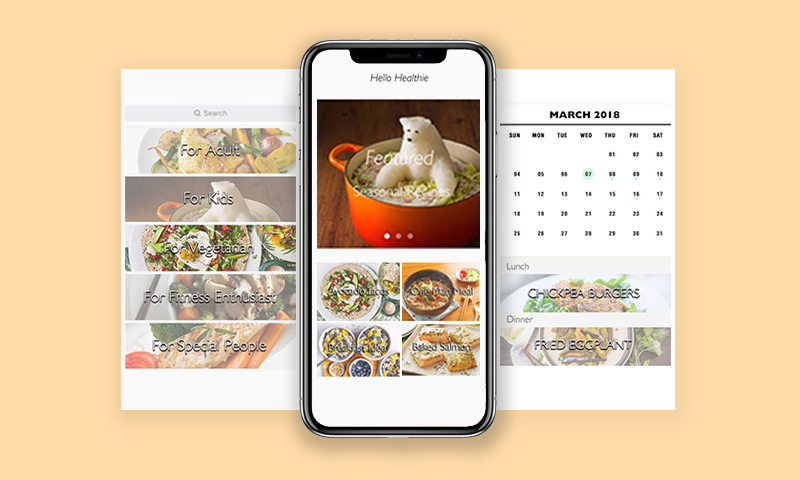
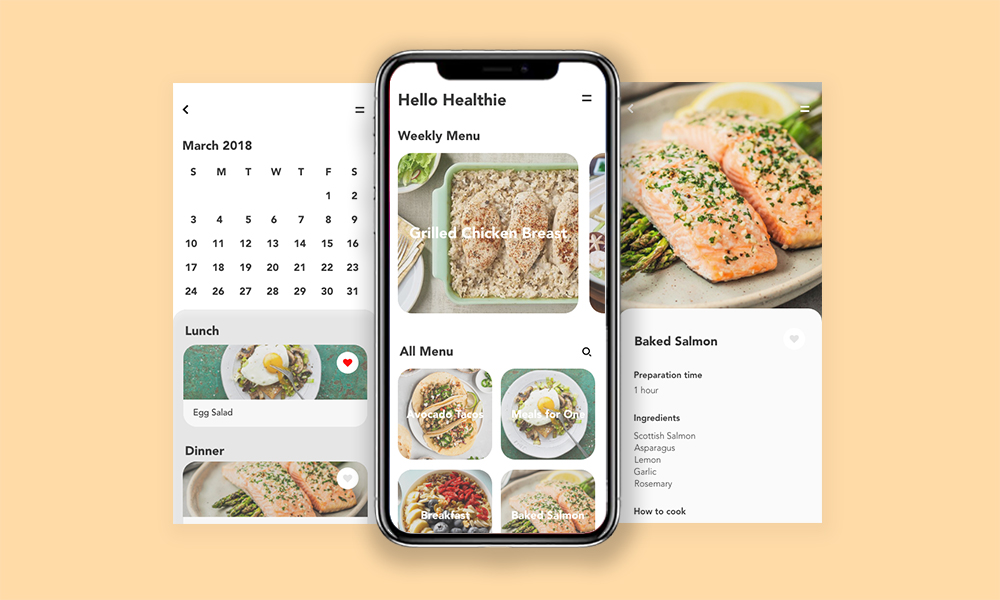
hello healthie

diff --git a/hellohealthie.html b/hellohealthie.html
@@ -1,0 +1,249 @@
+<!doctype html>
+<html lang="en">
+  <head>
+    <meta charset="utf-8">
+    <meta name="viewport" content="width=device-width, initial-scale=1, shrink-to-fit=no">
+    <title>Mickey Law Design Portfolio - Hello Healthie</title>
+    <link rel="stylesheet" href="css/bootstrap.min.css">
+    <link rel="stylesheet" href="css/aos.min.css">
+    <link rel="stylesheet" href="css/hamburgers/hamburgers.min.css">
+    <link rel="stylesheet" href="css/owl.carousel.min.css">
+    <link rel="stylesheet" href="fonts/icomoon/style.css">
+    <link rel="stylesheet" href="css/animsition.min.css">
+    <link rel="stylesheet" type="text/css" href="https://cdnjs.cloudflare.com/ajax/libs/font-awesome/4.7.0/css/font-awesome.min.css">
+    <link rel="stylesheet" href="https://cdnjs.cloudflare.com/ajax/libs/font-awesome/4.7.0/css/font-awesome.min.css">
+
+    <link rel="stylesheet" href="css/style.css">
+  </head>
+  <body>
+
+  <div class="js-animsition animsition" data-animsition-in-class="fade-in" data-animsition-out-class="fade-out">
+
+    <header class="templateux-navbar"  data-aos="fade-down">
+      <div class="container-fluid">
+        <div class="row">
+          <div class="col-sm-3 col-3"><div class="site-logo"><a href="index.html" class="animsition-link">Mickey Law</a></div></div>
+          <div class="col-sm-9 col-9 text-right">
+
+            <button class="hamburger hamburger--spin toggle-menu ml-auto js-toggle-menu" type="button">
+              <span class="hamburger-box">
+                <span class="hamburger-inner"></span>
+              </span>
+            </button>
+
+            <nav class="templateux-menu js-templateux-menu" role="navigation">
+              <ul class="list-unstyled">
+                <li class="d-md-none d-block"><a href="index.html" class="animsition-link">Home</a></li>
+                <li class="active"><a href="index.html" class="animsition-link">Work</a></li>
+                <li><a href="about.html" class="animsition-link">About</a></li>
+                <li><a href="contact.html" class="animsition-link">Contact</a></li>
+              </ul>
+            </nav>
+          </div>
+        </div>
+      </div>
+    </header>
+
+    <!-- END templateux-navbar -->
+
+    <section class="templateux-hero"  data-scrollax-parent="true">
+      <!-- <div class="cover" data-scrollax="properties: { translateY: '30%' }"><img src="images/hero_2.jpg" /></div> -->
+
+      <div class="container">
+        <div class="row align-items-center justify-content-center intro">
+          <div class="col-md-10" data-aos="fade-up">
+            <!--div class="row justify-content-center"-->
+            <!--/div-->
+            <h1 style="text-align:center">Hello Healthie</h1>
+            <p style="text-align:center">UX Design Challenge</p>
+
+            <!--a href="#next" class="go-down js-smoothscroll"></a-->
+
+          </div>
+        </div>
+      </div>
+
+    </section>
+
+    <!-- END templateux-hero -->
+
+
+    <section class="templateux-portfolio-overlap mb-5" id="next">
+      <div class="container" data-aos="fade-up">
+        <div class="row justify-content-center">
+          <div class="col-md-10">
+
+            <div class="row work-detail">
+              <div class="col-md-4 ">
+                <span class=caption>Category</span>
+                <span class=cap>User research<br /> User experience design<br /> Human-centred design</span>
+              </div>
+              <div class="col-md-4">
+                <span class=caption>Designer</span>
+                <span class=cap>Mickey Law<br /> Leann Chen<br /> Rosalyn Chun</span>
+              </div>
+              <div class="col-md-4">
+                <span class=caption>Year</span>
+                <span class=cap>2018</span>
+              </div>
+            </div>
+
+            <p class="text-center mb-5"><img src="images/ideo.jpg" alt="Image placeholder" class="img-fluid" width="790"></p>
+
+            <div class="row">
+              <div class="row justify-content-center">
+
+                <div class="col-md-10">
+                  <p class="mb-4">This was a 7-week online course provided by +Acumen and IDEO.org. Throughout this course, I was introduced to different methods and tools of human-centred design and tackled a real-world design challenge with my teammates by going through the process of design research, concept generation and rapid prototyping. </p>
+                </div>
+                <div class="col-md-10">
+                  <h2 class="text-center"><br /><br />01</h2>
+                  <h4 class="mb-5 text-center">Mini Design Challenge</h4>
+                </div>
+                <div class="col-md-10">
+                  <h6 class="mb-3"></h6>
+                  <p class="mb-5">One of the mini design challenges was to brainstorm “How might we design a service to improve health in everyday places?”. </p>
+                </div>
+                <div class="col-md-10">
+                  <h6 class="mb-3"></h6>
+                  <p class="mb-3">We spent 5 minutes for each place to come up with as many ideas as we could. </p>
+                </div>
+                <div>
+                  <p class="text-center mb-5"><img src="images/hh_mini.jpg" alt="Image placeholder" class="img-fluid" width="790"></p>
+                </div>
+                <div class="col-md-10">
+                  <p class="mb-3">After that, we were asked to vote and select the best two ideas,<strong> Housework calories metre and Food pyramid shelf</strong>, for making prototypes. This learning through making process taught me how to <strong>use simple tools to do quick prototyping and validate our ideas.</strong></p>
+                </div>
+                <div>
+                  <p class="text-center mb-3"><img src="images/hh_proto.png" alt="Image placeholder" class="img-fluid" width="790"></p>
+                </div>
+                <div class="col-md-10">
+                  <p class="mb-5">Housework calories metre</p>
+                </div>
+                <div>
+                  <p class="text-center mb-3"><img src="images/hh_proto_2.png" alt="Image placeholder" class="img-fluid" width="790"></p>
+                </div>
+                <div class="col-md-10">
+                  <p class="mb-5">Food pyramid shelf</p>
+                </div>
+                <div class="col-md-10">
+                  <h2 class="text-center"><br /><br />02</h2>
+                  <h4 class="mb-5 text-center">Defining Opportunity</h4>
+                </div>
+                <div class="col-md-10">
+                  <p class="mb-3">In our final design challenge, we chose the topic of <strong>“How might we provide healthier food options for people in need?”.</strong></p>
+                </div>
+                <div class="col-md-10">
+                  <h2 class="text-center"><br /></h2>
+                  <h6 class="mb-3">Brainstorming</h6>
+                </div>
+                <div class="col-md-10">
+                  <p class="mb-3">We first brainstormed the problems which different stakeholders might encounter and found that business sector would be our target to improve the current situation.</p>
+                </div>
+                <div>
+                  <p class="text-center mb-3"><img src="images/hh_brainstorm.png" alt="Image placeholder" class="img-fluid" width="790"></p>
+                </div>
+                <div class="col-md-10">
+                  <h2 class="text-center"><br /></h2>
+                  <h6 class="mb-3">Interview</h6>
+                </div>
+                <div class="col-md-10">
+                  <p class="mb-3">We interviewed 5 people in total to gain insights from their eating habits. We drew some interesting findings from each of the respondents, transcribed each of the points on a piece of memo and placed it under each respondent's name.</p>
+                </div>
+                <div>
+                  <p class="text-center mb-3"><img src="images/hh_interview.jpg" alt="Image placeholder" class="img-fluid" width="790"></p>
+                </div>
+                <div class="col-md-10">
+                  <h2 class="text-center"><br /></h2>
+                  <h6 class="mb-3">Major takeaways from interview</h6>
+                </div>
+                <div class="col-md-10">
+                  <p class="mb-3">The memos were then categorised. We picked the three most important points as the main objectives to develop our concept:</p>
+                </div>
+                <div class="col-md-10">
+                  <p class="mb-3">1. Prefer healthy ingredients, methods and seasoning <br />2. Prefer fast and simple <br />3. Take healthy advice from professionals</p>
+                </div>
+                <div>
+                  <p class="text-center mb-3"><img src="images/hh_interview_2.jpg" alt="Image placeholder" class="img-fluid" width="790"></p>
+                </div>
+
+
+
+
+                <div class="col-md-10">
+                  <h2 class="text-center"><br /><br />03</h2>
+                  <h4 class="mb-5 text-center">Ideation</h4>
+                </div>
+                <div class="col-md-10">
+                  <p class="mb-3">We then converted the insights into a concept, Hello Healthie, which is an app collaborating with nutritionists, chefs, local farms to provide menu customizing and ingredient delivery service in Hong Kong. It promotes healthy cooking and balanced diet for Hong Kong people who are too busy to prepare meals.</p>
+                </div>
+                <div class="col-md-10">
+                  <h2 class="text-center"><br /><br /></h2>
+                  <h6 class="mb-3">User Flow</h6>
+                </div>
+                <div class="col-md-10">
+                  <p class="mb-3">We first considered the functions to be included in the app and drafted the user flow.</p>
+                </div>
+                <div>
+                  <p class="text-center mb-1"><img src="images/hh_userflow.jpg" alt="Image placeholder" class="img-fluid" width="790"></p>
+                </div>
+                <div class="col-md-10">
+                  <h2 class="text-center"><br /><br /></h2>
+                  <h6 class="mb-3">Low Fidelity Prototype</h6>
+                </div>
+                <div class="col-md-10">
+                  <p class="mb-3">After finishing the user flow, we created low fidelity prototype to visualise the user interface of the app.</p>
+                </div>
+                <div>
+                  <p class="text-center mb-1"><img src="images/hh_dirtyproto.png" alt="Image placeholder" class="img-fluid" width="790"></p>
+                </div>
+                <div>
+                  <p class="text-center mb-5"><img src="images/hh_dirtyproto_2.png" alt="Image placeholder" class="img-fluid" width="790"></p>
+                </div>
+
+                <div class="col-md-10">
+                  <h2 class="text-center"><br /><br /></h2>
+                  <h6 class="mb-3">High Fidelity Prototype</h6>
+                </div>
+                <div class="col-md-10">
+                  <p class="mb-3">Because of the time constraint, </p>
+                </div>
+                <div class="col-md-10">
+                  <p class="text-center mb-2"><img src="images/hh_ui.jpg" alt="Image placeholder" class="img-fluid"></p>
+                </div>
+
+              </div>
+            </div>
+          </div>
+        </div>
+      </div>
+    </section>
+
+    <footer class="templateux-footer">
+      <div class="container-fluid">
+        <div class="row">
+          <div class="col-md-6 text-md-left text-center">
+            <p>
+            <!-- Link back to Colorlib can't be removed. Template is licensed under CC BY 3.0. -->
+            Copyright &copy;<script>document.write(new Date().getFullYear());</script> All rights reserved | Ho Wing Law Portfolio
+            <!-- Link back to Colorlib can't be removed. Template is licensed under CC BY 3.0. -->
+          </p>
+          </div>
+          <div class="col-md-6 text-md-right text-center footer-social">
+            <a href="http://www.linkedin.com/in/mickeyhwlaw" class="p-3"><span class="icon-linkedin2"></span></a>
+            <!--a href="#" class="p-3"><span class="icon-twitter2"></span></a>
+            <a href="#" class="p-3"><span class="icon-dribbble2"></span></a>
+            <a href="#" class="p-3"><span class="icon-instagram"></span></a-->
+          </div>
+        </div>
+      </div>
+    </footer>
+
+  </div>
+
+
+  <script src="js/scripts-all.js"></script>
+  <script src="js/main.js"></script>
+
+  </body>
+</html>

diff --git a/index.html b/index.html
@@ -87,14 +87,14 @@
             </a>
           </div>
           <div class="col-lg-4 col-md-6" data-aos="fade-up" data-aos-delay="200">
-            <a class="project animsition-link" href="work-single.html">
+            <a class="project animsition-link" href="hellohealthie.html">
               <figure>
                 <img src="images/ideo.jpg" alt="Free Template" class="img-fluid">
               </figure>
               <div class="project-hover">
                 <div class="project-hover-inner">
                   <h2>Hello Healthie</h2>
-                  <span>IDEO Human-centered Design Course</span>
+                  <span>UX Design Challenge</span>
                 </div>
               </div>
             </a>
@@ -106,7 +106,7 @@
               </figure>
               <div class="project-hover">
                 <div class="project-hover-inner">
-                  <h2>Snom 5" Deskset</h2>
+                  <h2>5" Deskset</h2>
                   <span>Product Design</span>
                 </div>
               </div>
@@ -119,7 +119,7 @@
               </figure>
               <div class="project-hover">
                 <div class="project-hover-inner">
-                  <h2>VTech Baby Monitor</h2>
+                  <h2>Baby Monitor</h2>
                   <span>Product Design</span>
                 </div>
               </div>
@@ -132,7 +132,7 @@
               </figure>
               <div class="project-hover">
                 <div class="project-hover-inner">
-                  <h2>Snom Dect Base</h2>
+                  <h2>Dect Base</h2>
                   <span>Product Design</span>
                 </div>
               </div>
